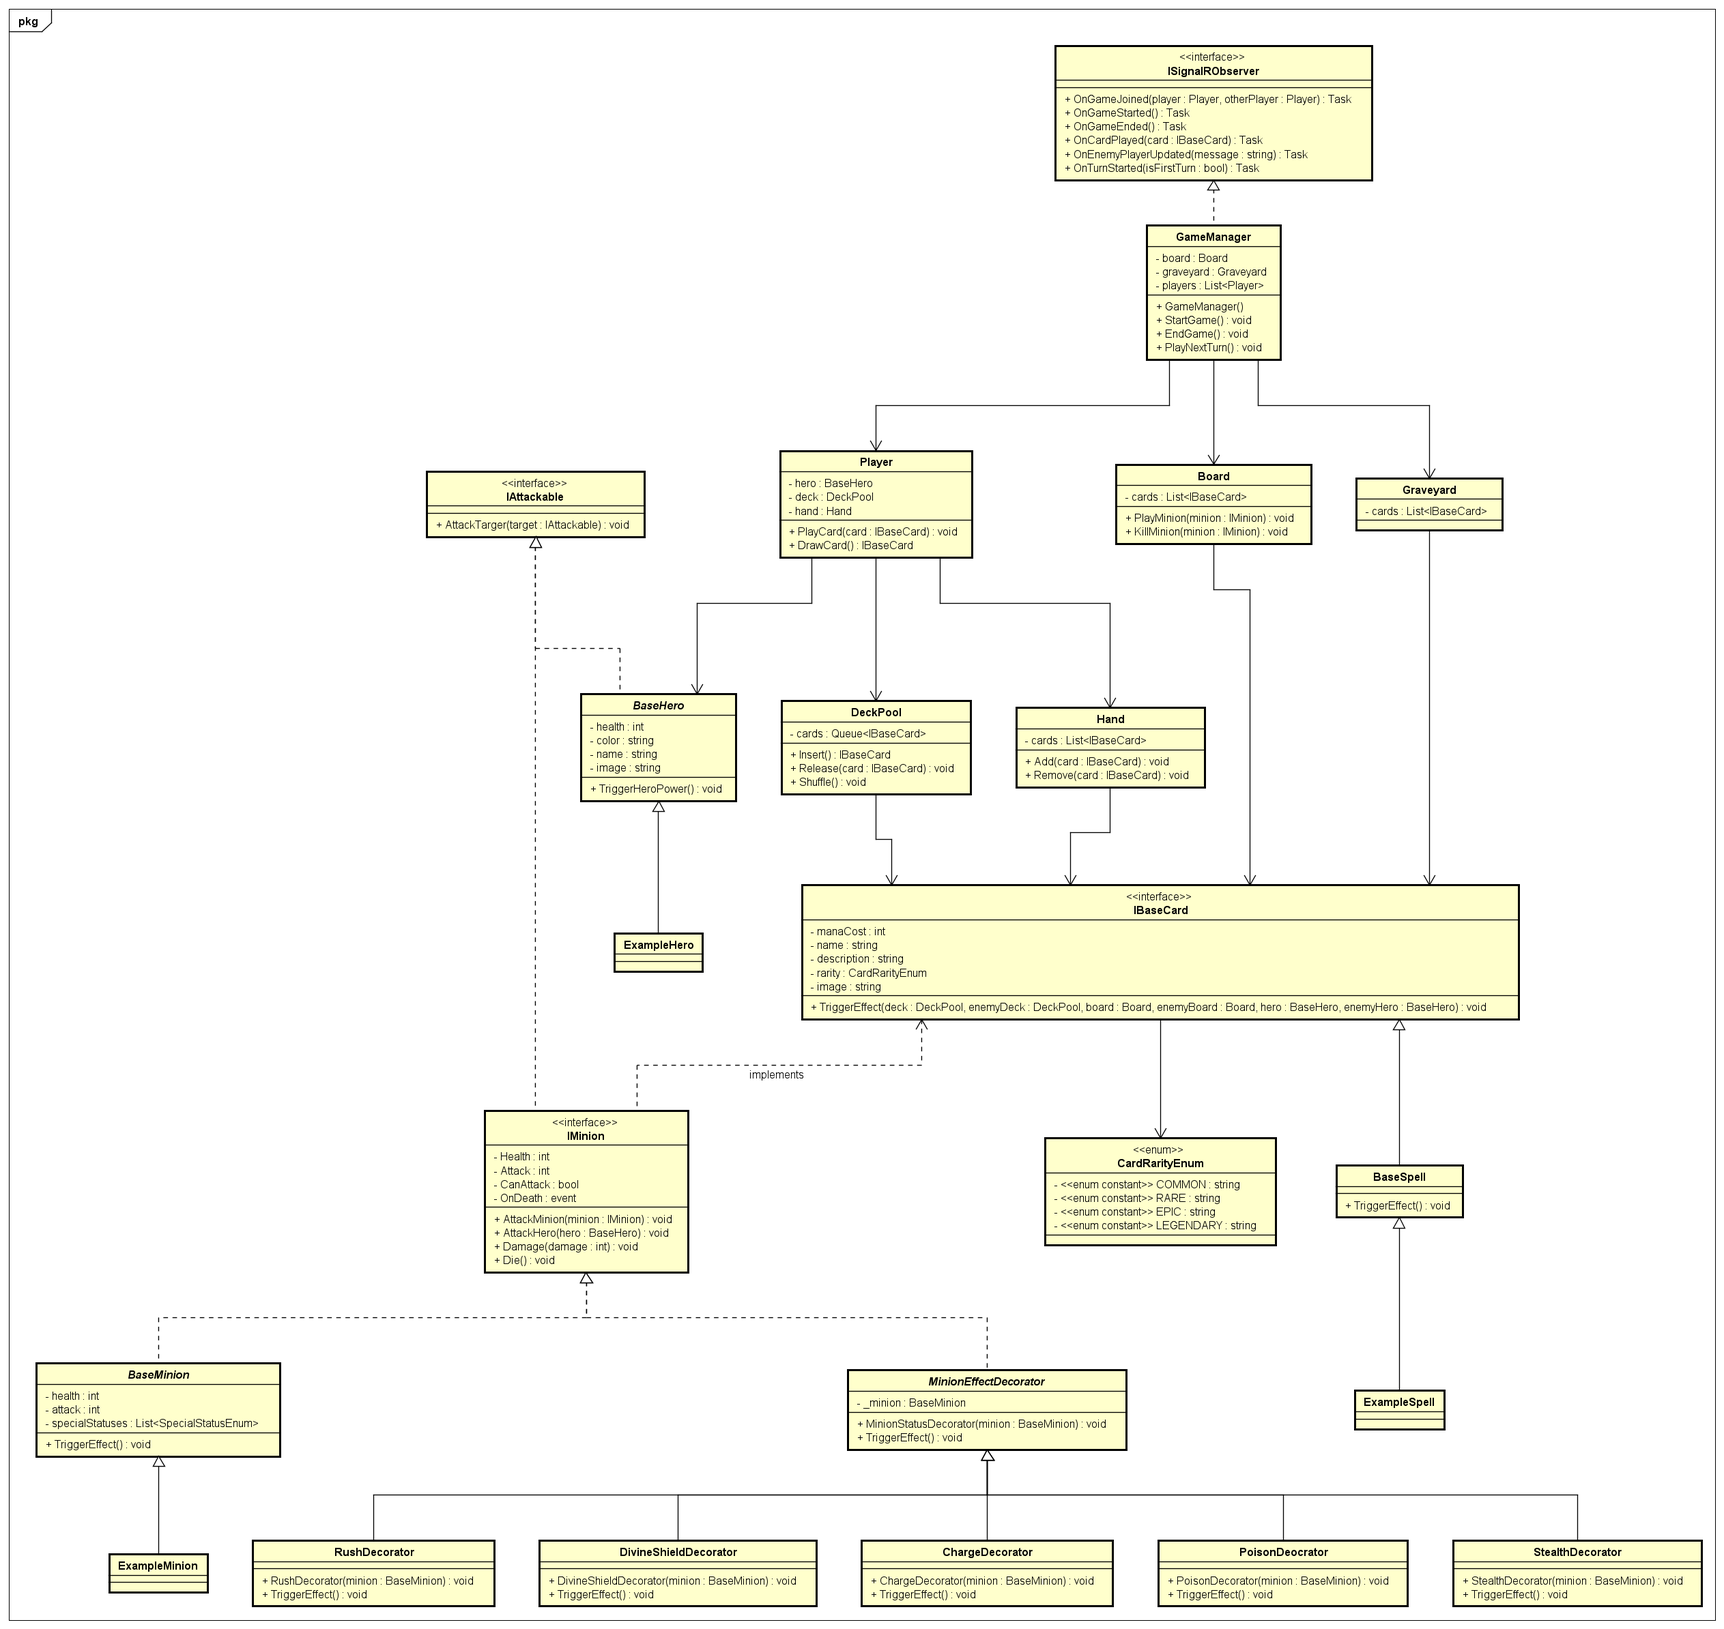
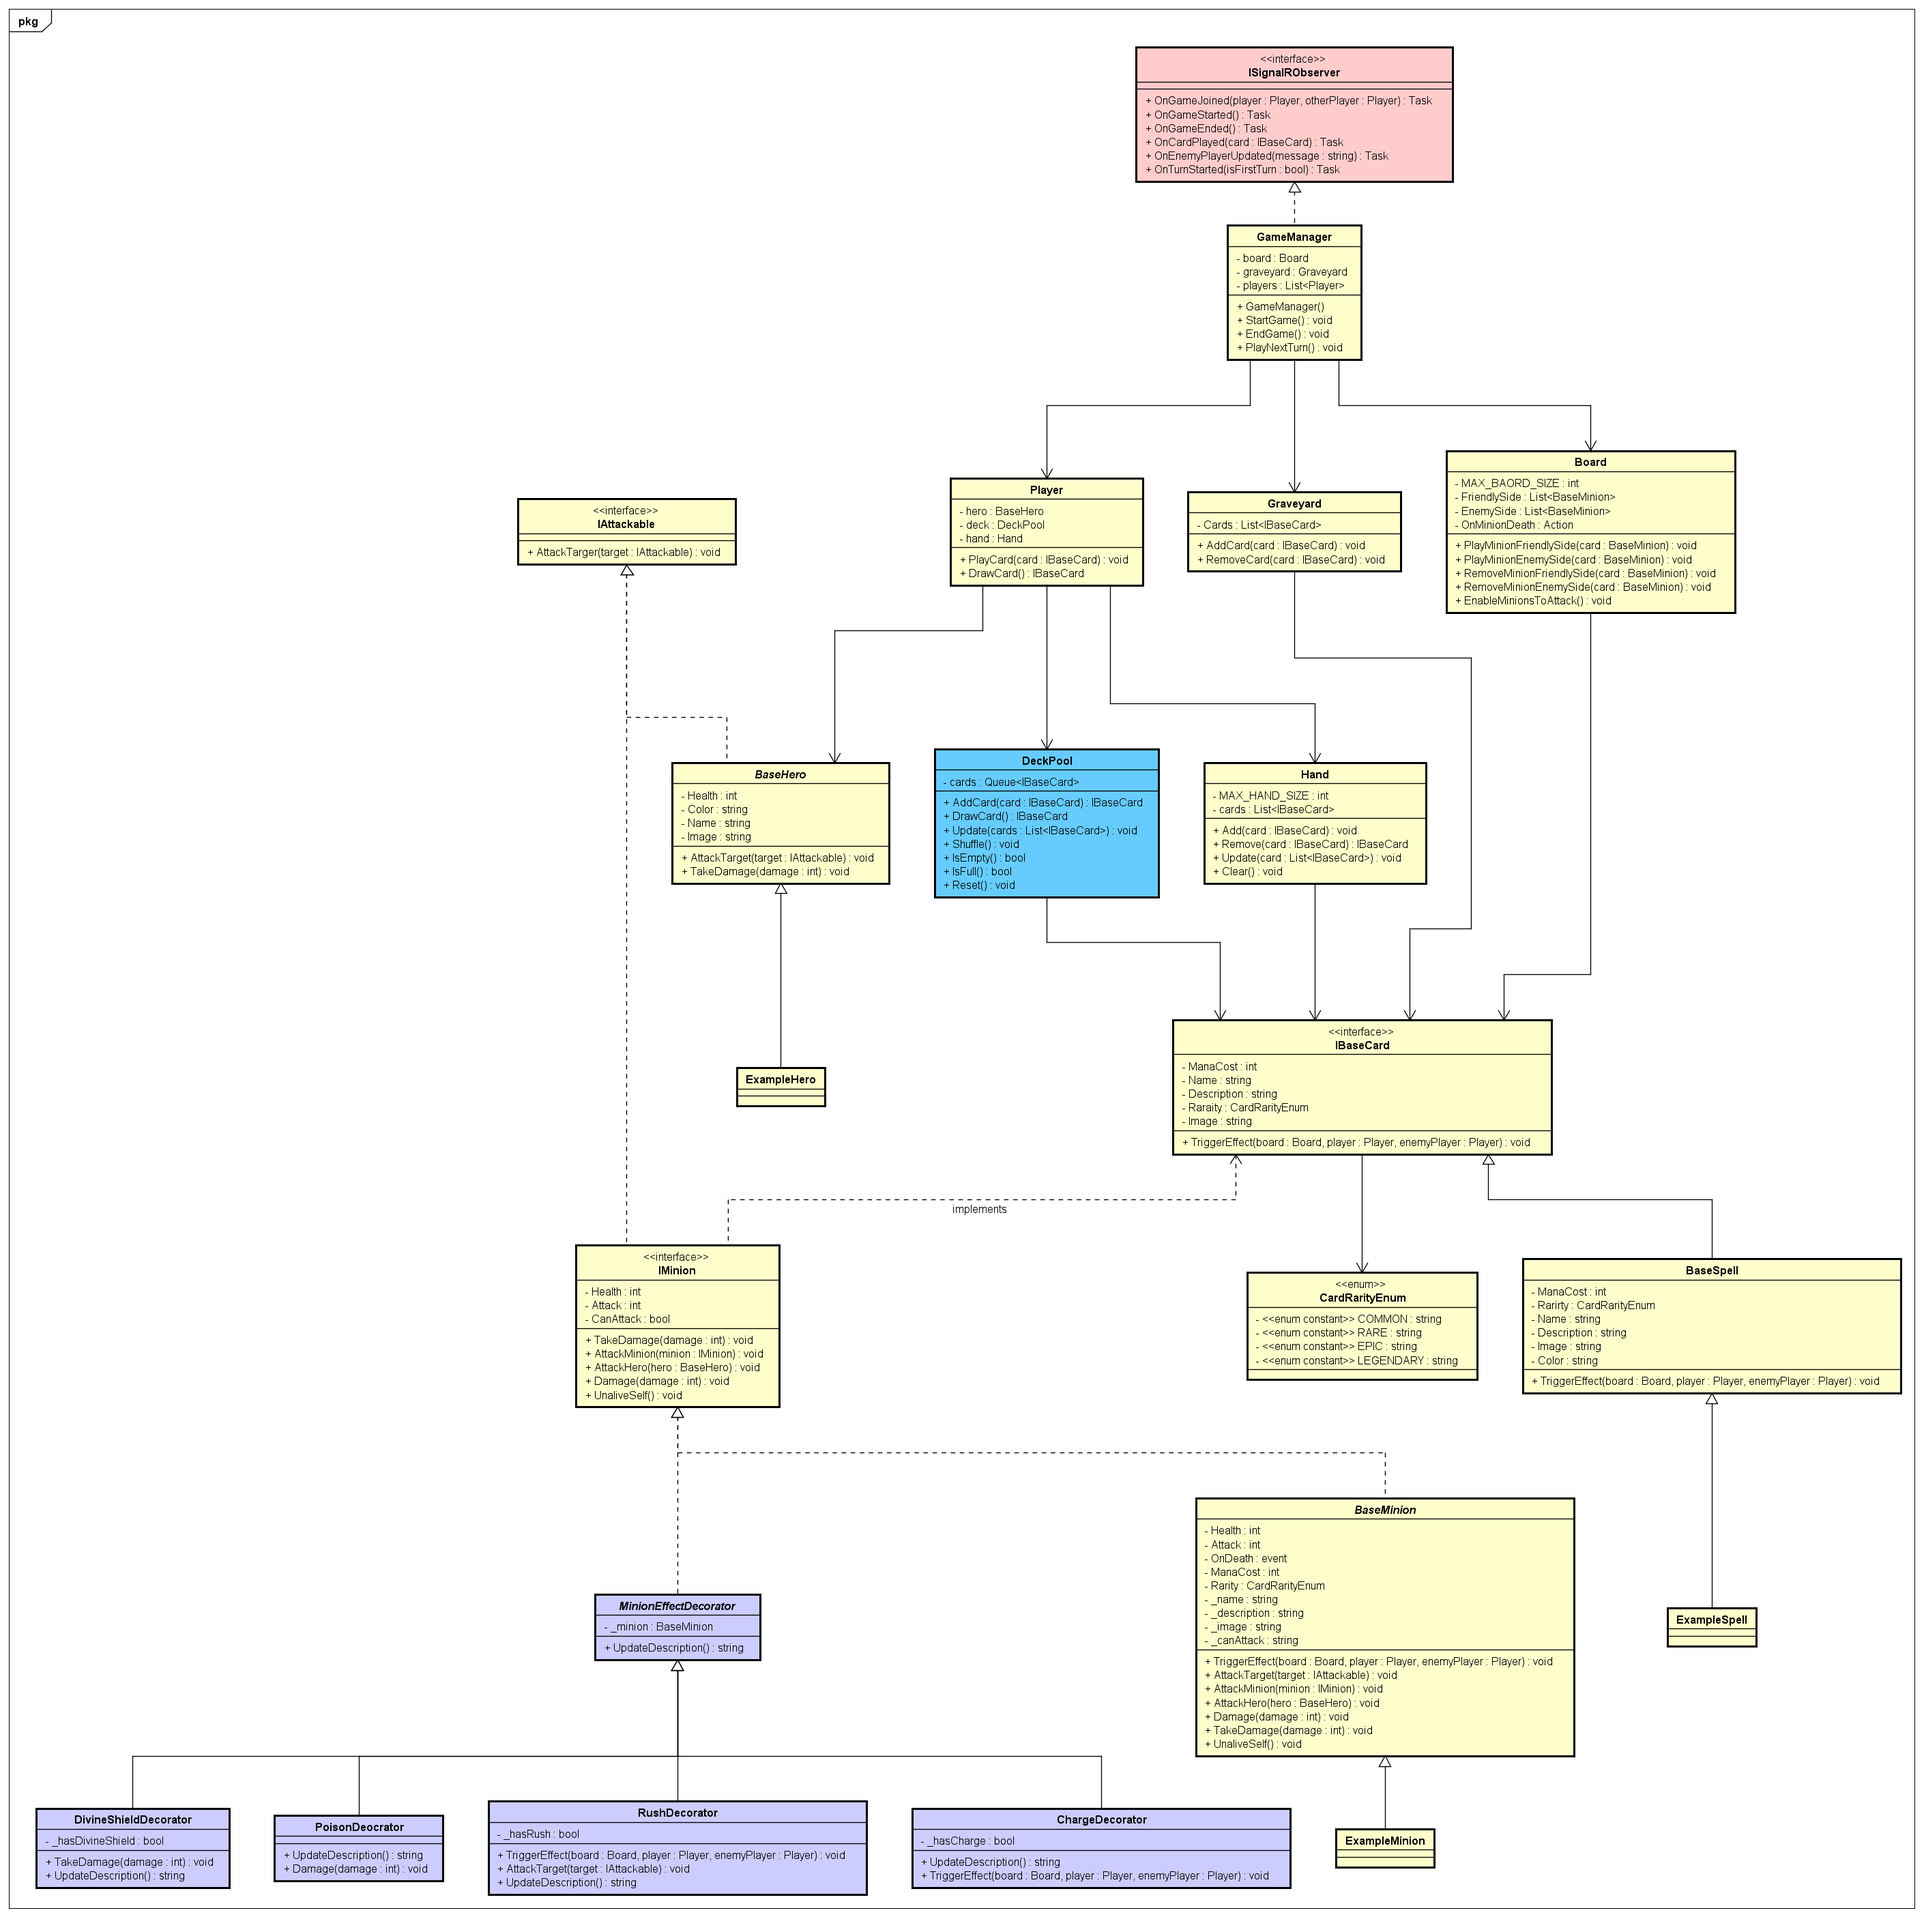
Update class diagram and remove unused code

diff --git a/CardCraftShared/Core/DeckPool.cs b/CardCraftShared/Core/DeckPool.cs
@@ -58,15 +58,6 @@ public class DeckPool
         return Cards.Count >= MAX_AMOUNT_CARDS;
     }
 
-    public void AddDeck(IList<IBaseCard> deck)
-    {
-        if (deck.Count > MAX_AMOUNT_CARDS) throw new Exception("Deck is too large");
-        foreach (var card in deck)
-        {
-            AddCard(card);
-        }
-    }
-
     public void Reset()
     {
         Cards = new(PersistentCards);

diff --git a/CardCraftShared/Core/AbstractClasses/BaseHero.cs b/CardCraftShared/Core/AbstractClasses/BaseHero.cs
@@ -74,12 +74,7 @@ public abstract class BaseHero : IAttackable
 
     public void AttackTarget(IAttackable target)
     {
-        throw new NotImplementedException();
-    }
-    
-    public void TriggerHeroPower()
-    {
-        throw new NotImplementedException();
+        //Hero too weak to attack :D
     }
 
     public void TakeDamage(int damage)

diff --git a/CardCraftShared/Core/Interfaces/IMinion.cs b/CardCraftShared/Core/Interfaces/IMinion.cs
@@ -7,7 +7,6 @@ public interface IMinion : IBaseCard, IAttackable
     public int Health { get; set; }
     public int Attack { get; set; }
     public bool CanAttack { get; set; }
-    public event EventHandler OnDeath;
     public void TakeDamage(int damage);
     public void AttackMinion(IMinion minion);
     public void AttackHero(BaseHero hero);
